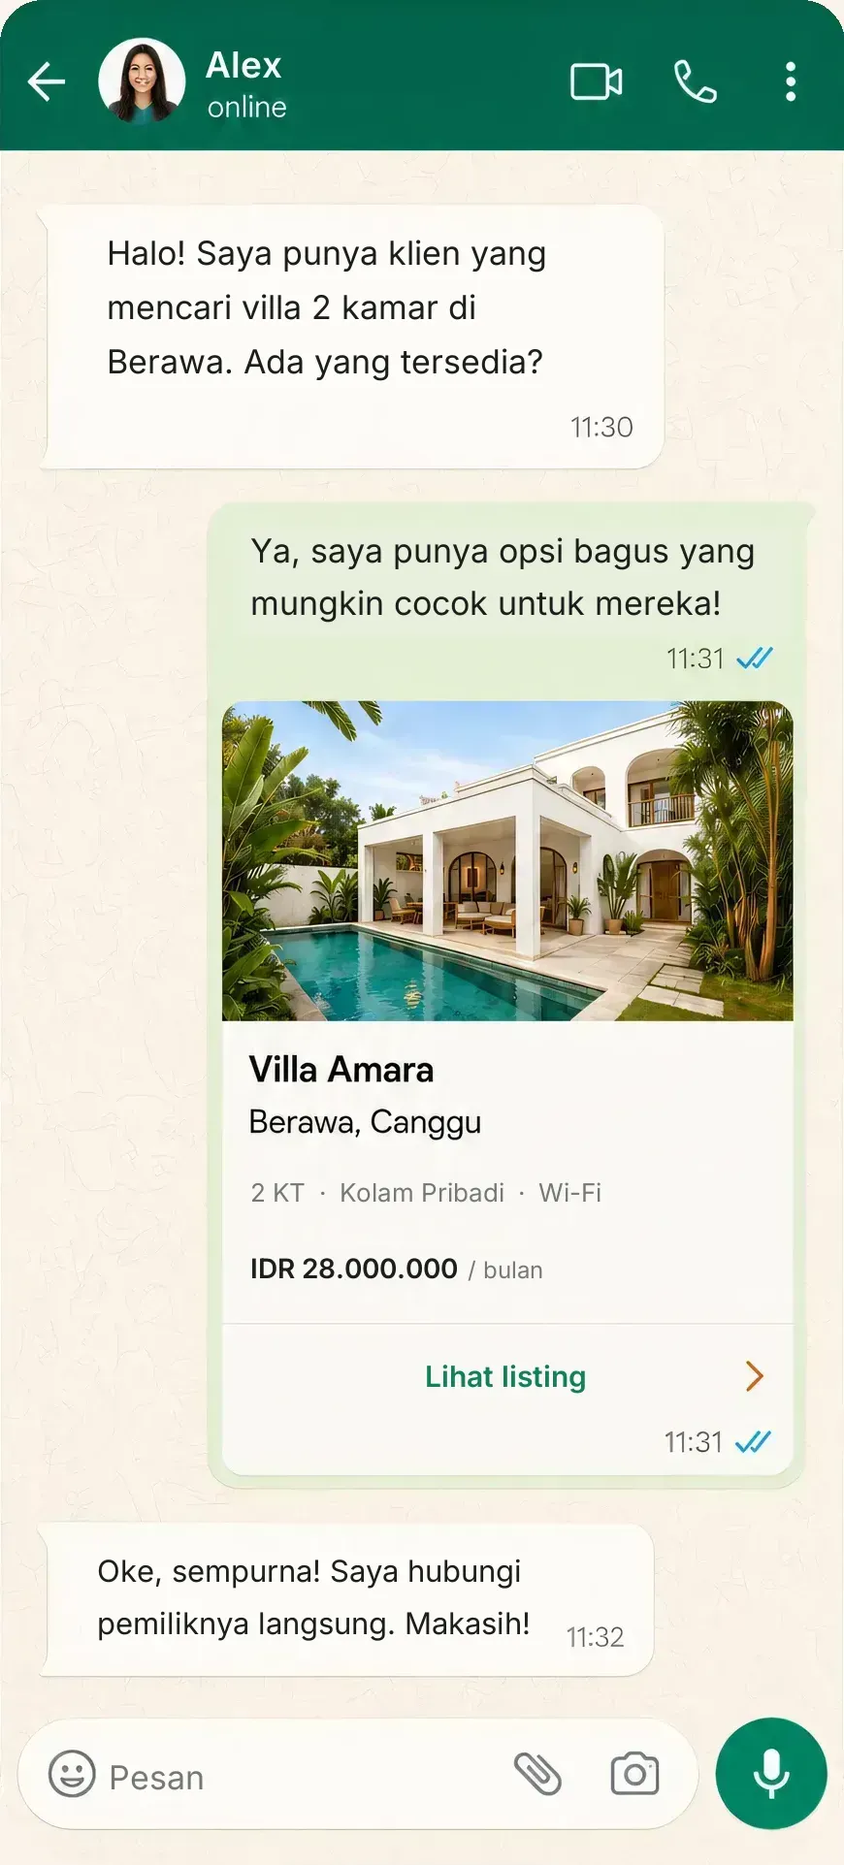
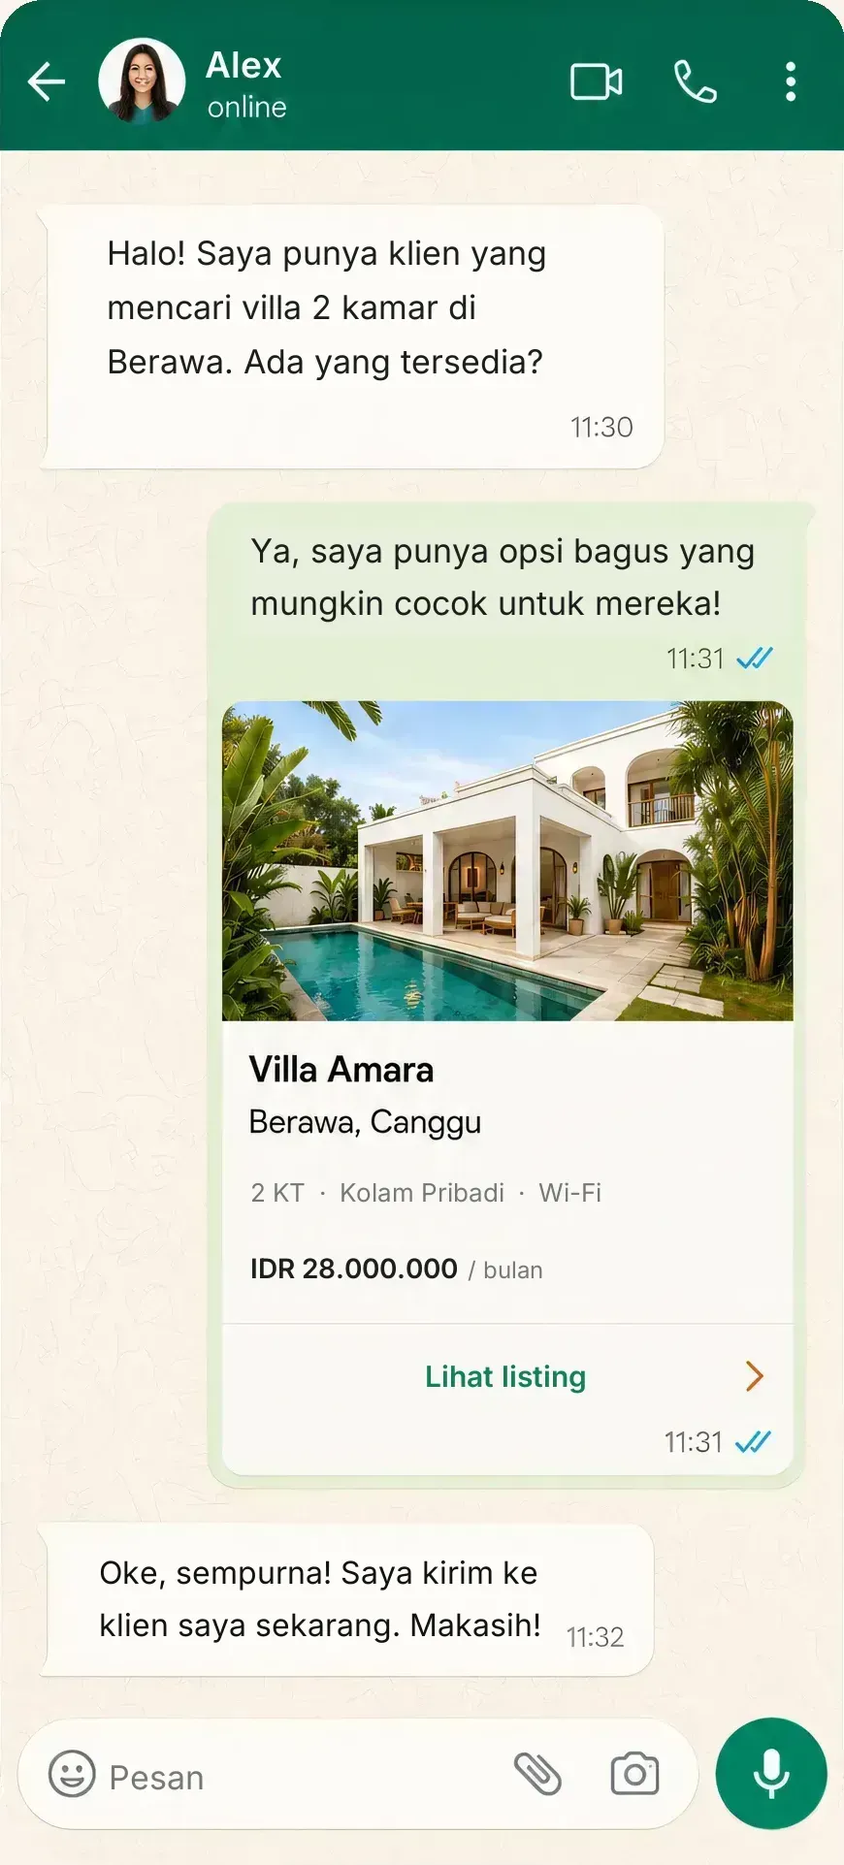
One owner funnel: /home pitches, /portal boots demo + sign-in sheet
The signed-out owner portal was a second landing page competing with /home
(same locked headline, circular Home/List-your-villa nav). Now /portal signed
out boots straight into the demo dashboard with nav.js's site-wide sign-in
sheet over it — the sheet is the auth gate, /home is the only pitch page.

- portal.html: #login landing removed; demo is the signed-out backdrop;
  demo gates (banner, + Add property) open the sheet instead of confirm();
  ?view=new defers to after sign-in; SambaNav.onChange swaps demo for the
  real dashboard in place.
- nav.js: owner variant of the sign-in sheet (full Samba lockup, owner copy,
  FOUNDING25 fineprint, "Explore the demo first", /home link); mobile media
  is a purpose-made 3:2 laptop+phone graphic in a matching 3:2 band so the
  devices never crop; landing prompt claims owner-portal loads; agent
  WhatsApp onboarding no longer fires for owners signing in on /portal.
- for-agents step 3 recast: "Deal with owners directly" — no middleman;
  WhatsApp mockup bubbles patched to match (EN + ID).

Changed region(s): [[0.1241, 0.8112, 0.6517, 0.9048]]

diff --git a/public/portal.html b/public/portal.html
@@ -20,39 +20,9 @@
 *{box-sizing:border-box;margin:0;padding:0;}
 body{font-family:'Satoshi',-apple-system,sans-serif;background:var(--bg);color:var(--text);min-height:100vh;font-size:14.5px;-webkit-font-smoothing:antialiased;-moz-osx-font-smoothing:grayscale;}
 
-/* LANDING (signed-out) */
-#login{min-height:100vh;}
-.lp-nav{position:sticky;top:0;z-index:50;display:flex;align-items:center;gap:10px;padding:12px 22px;background:rgba(244,241,237,0.88);backdrop-filter:blur(10px);border-bottom:1px solid var(--border);}
-.lp-nav .brand-mark{display:flex;align-items:center;text-decoration:none;cursor:pointer;}
-.lp-nav .brand-mark img{height:38px;}
-.lp-nav .spacer{flex:1;}
-.lp-navlink{font-size:0.88rem;font-weight:500;color:var(--text);text-decoration:none;padding:8px 13px;border-radius:8px;transition:background .15s;}
-.lp-navlink:hover{background:var(--surface2);}
-.lp-cta{background:var(--accent);border:none;border-radius:10px;color:#fff;padding:10px 17px;font-family:'Satoshi',-apple-system,sans-serif;font-size:0.84rem;font-weight:600;cursor:pointer;transition:background .2s;white-space:nowrap;}
-.lp-cta:hover{background:var(--sb-terracotta-600);}
-
-.lp-hero{text-align:center;padding:52px 24px 30px;max-width:660px;margin:0 auto;}
-.lp-eyebrow{font-size:0.78rem;font-weight:700;letter-spacing:0.22em;text-transform:uppercase;color:var(--accent);margin-bottom:16px;}
-.lp-h1{font-family:'Satoshi',-apple-system,sans-serif;font-weight:700;font-size:clamp(2.5rem,6.4vw,3.5rem);line-height:1.05;letter-spacing:-.02em;margin-bottom:18px;}
-.lp-sub{font-size:1.08rem;color:var(--muted);line-height:1.6;max-width:520px;margin:0 auto 28px;}
-#gbtn{display:flex;justify-content:center;min-height:44px;}
-.dev-btn{padding:13px 22px;background:var(--surface);color:var(--text);border:1px solid var(--border);border-radius:999px;font-family:'Satoshi',-apple-system,sans-serif;font-size:0.85rem;font-weight:600;cursor:pointer;box-shadow:var(--sb-shadow-sm);}
-.dev-btn:hover{border-color:var(--accent);}
-.login-err{margin-top:12px;color:var(--red);font-size:0.78rem;min-height:1em;}
-.lp-hero-note{margin-top:14px;font-size:0.8rem;color:var(--muted);}
-.lp-hero-note b{color:var(--sb-terracotta-700);letter-spacing:.05em;}
-
-.lp-footer{padding:30px 24px 8px;text-align:center;color:var(--muted);font-size:0.82rem;line-height:2.1;}
-.lp-footer a{color:var(--accent);text-decoration:none;font-weight:500;}.lp-footer a:hover{text-decoration:underline;}
-.lp-footer .lp-flinks a{margin:0 10px;}
-
-@media(max-width:760px){.lp-nav{padding:11px 14px;}.hide-mobile{display:none;}}
-@media(max-width:480px){
-  .lp-nav{gap:5px;padding:10px 10px;}
-  .lp-nav .brand-mark img{height:28px;}
-  .lp-navlink{font-size:.78rem;padding:6px 7px;}
-  .lp-cta{font-size:.75rem;padding:9px 11px;border-radius:9px;}
-}
+/* Signed-out, the page boots straight into the demo dashboard and nav.js's
+   site-wide sign-in sheet opens over it — /home is the only marketing page. */
+@media(max-width:760px){.hide-mobile{display:none;}}
 .portal-foot{margin-top:44px;padding-top:20px;border-top:1px solid var(--border);font-size:0.74rem;color:var(--muted);text-align:center;}
 .portal-foot a{color:var(--muted);text-decoration:none;}.portal-foot a:hover{color:var(--text);}
 
@@ -163,7 +133,6 @@ a.btn-sm{text-decoration:none;display:inline-flex;align-items:center;gap:4px;}
 .ical-help summary::before{content:'? ';font-weight:700;}
 .ical-help[open] summary{margin-bottom:6px;}
 .ical-help div{background:var(--surface2);border-radius:8px;padding:10px 12px;line-height:1.7;}
-.lp-demo{display:block;margin:14px auto 0;background:none;border:none;color:var(--accent);font-family:inherit;font-size:.86rem;font-weight:600;cursor:pointer;text-decoration:underline;text-underline-offset:3px;}
 .demo-banner{display:flex;align-items:center;gap:12px;background:var(--surface2);border:1px solid var(--border);border-radius:12px;padding:12px 16px;margin-bottom:18px;font-size:.86rem;color:var(--text-2);}
 .demo-banner button{margin-left:auto;flex-shrink:0;background:var(--accent);border:none;border-radius:8px;color:#fff;font-family:inherit;font-size:.8rem;font-weight:600;padding:8px 14px;cursor:pointer;}
 .fg .hint{font-size:0.66rem;color:var(--muted);text-transform:none;letter-spacing:0;margin-top:5px;}
@@ -359,38 +328,9 @@ body.wiz-open #snav-tabs{display:none !important;}
 </head>
 <body>
 
-<!-- LANDING (signed-out) -->
-<div id="login">
-  <nav class="lp-nav">
-    <a class="brand-mark" href="/home" aria-label="Samba home">
-      <img src="/logo-samba.png" alt="Samba">
-    </a>
-    <div class="spacer"></div>
-    <a class="lp-navlink" href="/home">Home</a>
-    <button class="lp-cta" onclick="scrollToSignIn()">List your villa</button>
-    <!-- EN/ID pill auto-mounts here (i18n.js) -->
-  </nav>
+<!-- APP — also the signed-out backdrop (demo data + nav.js sign-in sheet).
+     Portal switcher pill comes from nav.js (#snav-tabs) — site-wide component -->
 
-  <header class="lp-hero">
-    <div class="lp-eyebrow">Owner portal</div>
-    <h1 class="lp-h1">One listing. 300+&nbsp;rental&nbsp;agents.</h1>
-    <p class="lp-sub">Sign in to list your villa. Every rental agent on Samba sees your live availability and shares it with their clients.</p>
-    <div id="gbtn"></div>
-    <div class="login-err" id="login-err"></div>
-    <div class="lp-hero-note">The first 25 villas list free with code <b>FOUNDING25</b>. New here? Google sign-in creates your account.</div>
-    <button class="lp-demo" onclick="enterDemo()">Just looking? Explore the dashboard with demo data →</button>
-    <a class="lp-demo" style="display:inline-block;text-decoration:underline;text-underline-offset:3px" href="/home">New to Samba? See how it works →</a>
-  </header>
-
-  <footer class="lp-footer">
-    <div class="lp-flinks"><a href="/terms">Terms</a> · <a href="/privacy">Privacy</a> · <a href="/refund">Refunds</a></div>
-    <div>© 2026 Samba Rentals · Bali, Indonesia</div>
-  </footer>
-
-  <!-- Portal switcher pill comes from nav.js (#snav-tabs) — site-wide component -->
-</div>
-
-<!-- APP -->
 <div id="app">
   <div class="topbar">
     <a class="brand-mark" href="/" aria-label="Samba">
@@ -604,10 +544,8 @@ body.wiz-open #snav-tabs{display:none !important;}
 
 <div id="toast"></div>
 
-<script src="https://accounts.google.com/gsi/client" async></script>
 <script>
 const API = '/api/portal';
-const isDev = ['localhost','127.0.0.1'].includes(location.hostname);
 let appConfig=null, currentOwnerData=null;
 
 async function loadConfig(){ if(appConfig) return appConfig; const r=await api('?action=config'); appConfig=r.body||{}; return appConfig; }
@@ -616,8 +554,6 @@ async function pollProperties(){
 }
 
 function showToast(msg){const t=document.getElementById('toast');t.textContent=msg;t.classList.add('show');clearTimeout(t._h);t._h=setTimeout(()=>t.classList.remove('show'),2600);}
-function scrollToSignIn(){const g=document.getElementById('gbtn');if(g)g.scrollIntoView({behavior:'smooth',block:'center'});}
-function loginErr(msg){document.getElementById('login-err').textContent=msg||'';}
 
 async function api(path, opts={}){
   if(DEMO){const d=demoApi(path);if(d)return d;}
@@ -679,76 +615,41 @@ function enterDemo(){
   if(content&&!document.getElementById('demo-banner')){
     const b=document.createElement('div');
     b.className='demo-banner';b.id='demo-banner';
-    b.innerHTML='<span>You’re browsing <b>demo data</b>. This is what your dashboard looks like once your villa is live.</span><button onclick="exitDemo()">Sign in to add your villa</button>';
+    b.innerHTML='<span>You’re browsing <b>demo data</b>. This is what your dashboard looks like once your villa is live.</span><button onclick="openSignIn(\'banner\')">Sign in to add your villa</button>';
     content.prepend(b);
   }
-  // Demo is a dead end without an exit: back arrow in the topbar returns to
-  // the signed-out gate (exitDemo reloads /portal).
-  const tb=document.querySelector('#app .topbar');
-  if(tb&&!document.getElementById('demo-back')){
-    const bk=document.createElement('button');
-    bk.id='demo-back';bk.className='wiz-icon';bk.title='Exit demo';
-    bk.setAttribute('aria-label','Exit demo');
-    // Same arrow SVG as back.js — the raw "←" glyph rendered thin and off-center.
-    bk.innerHTML='<svg width="17" height="17" viewBox="0 0 24 24" fill="none" stroke="currentColor" stroke-width="2.2" stroke-linecap="round" stroke-linejoin="round" aria-hidden="true"><line x1="19" y1="12" x2="5" y2="12"/><polyline points="12 19 5 12 12 5"/></svg>';
-    bk.onclick=exitDemo;
-    tb.insertBefore(bk,tb.firstChild);
-  }
 }
-function exitDemo(){location.reload();}
+function openSignIn(src){ if(window.SambaNav) SambaNav.openSignIn(src||'gate'); }
 function demoBlock(){
-  if(confirm('This is the demo. Sign in with Google to manage a real villa. Go to sign-in now?')) exitDemo();
+  // Real actions in the demo route to the sign-in sheet instead of a confirm().
+  openSignIn('demo-gate');
   return true;
 }
 
-// ── Boot: check for an existing session, else render sign-in ──
+// ── Boot: existing session → the real app; signed out → demo dashboard as
+// the backdrop, and nav.js opens the site-wide sign-in sheet over it.
 (async function boot(){
   const me = await api('?action=auth/me');
   if (me.ok && me.body?.owner) return enterApp(me.body.owner);
-  renderSignIn();
+  enterDemo();
 })();
 
-async function renderSignIn(){
-  if (isDev){
-    const btn=document.createElement('button');
-    btn.className='dev-btn';
-    btn.textContent='Dev sign-in (local only)';
-    btn.onclick=()=>signIn('dev-credential');
-    document.getElementById('gbtn').appendChild(btn);
-    return;
-  }
-  // Production: Google Identity Services
-  const cfg = await api('?action=config');
-  const clientId = cfg.body?.googleClientId;
-  if (!clientId){ loginErr('Sign-in is not configured yet.'); return; }
-  const start=()=>{
-    if (!window.google?.accounts?.id){ return setTimeout(start,150); }
-    google.accounts.id.initialize({ client_id: clientId, callback:(resp)=>signIn(resp.credential) });
-    google.accounts.id.renderButton(document.getElementById('gbtn'),
-      { theme:'outline', size:'large', shape:'pill', text:'continue_with', width:320 });
-  };
-  start();
-}
-
-async function signIn(credential){
-  loginErr('');
-  const r = await api('?action=auth/google', {
-    method:'POST', headers:{'Content-Type':'application/json'},
-    body: JSON.stringify({ credential })
-  });
-  if (r.ok && r.body?.owner) return enterApp(r.body.owner);
-  loginErr(r.body?.error || 'Sign-in failed.');
+// Sign-in completes inside nav.js's sheet — swap the demo for the real account.
+function leaveDemoFor(owner){
+  DEMO=false;
+  const b=document.getElementById('demo-banner'); if(b) b.remove();
+  enterApp(owner);
 }
 
 function enterApp(owner){
   currentOwnerData=owner;
-  document.getElementById('login').style.display='none';
   document.getElementById('app').style.display='block';
   loadProperties();
   loadConfig();
   // Deep-link from the "List a property" sub-tab → open the add form.
+  // Skipped in the demo: it fires for real once the owner signs in.
   const qs = new URLSearchParams(location.search);
-  if (qs.get('view') === 'new') setTimeout(addProperty, 0);
+  if (qs.get('view') === 'new' && !DEMO) setTimeout(addProperty, 0);
   // Back from Creem checkout: the webhook flips the listing live within moments.
   if (qs.get('paid')) {
     showToast('Payment received. Activating your listing…');
@@ -758,7 +659,7 @@ function enterApp(owner){
 }
 
 async function logout(){
-  if(DEMO)return exitDemo();
+  if(DEMO)return location.reload();   // reload lands back in demo + sign-in sheet
   await api('?action=auth/logout', {method:'POST'});
   location.reload();
 }
@@ -1756,6 +1657,11 @@ async function manageBilling(){
 }
 </script>
 <script src="/nav.js"></script>
+<script>
+// Bridge: when nav.js's sign-in sheet authenticates an owner while the page
+// is showing demo data, swap the demo for their real dashboard in place.
+if (window.SambaNav) SambaNav.onChange(function(acct){ if (acct && DEMO) leaveDemoFor(acct); });
+</script>
   <script src="/i18n.js"></script>
 </body>
 </html>

diff --git a/public/nav.js b/public/nav.js
@@ -92,7 +92,7 @@
   /* Quiet terracotta ticks, not filled chips: the product mockup carries the visual weight now */
   .snav-benefits .snav-bcheck{flex-shrink:0;width:16px;height:16px;color:var(--sb-terracotta,#C46E4B);margin-top:1px}
   .snav-gbtn{display:flex;justify-content:center;min-height:44px}
-  .snav-guest{display:block;width:100%;text-align:center;background:none;border:none;color:#8a8478;font-family:'Geist',-apple-system,sans-serif;font-size:.8rem;font-weight:500;cursor:pointer;padding:8px 4px;transition:color .18s ease}
+  .snav-guest{display:block;width:100%;text-align:center;background:none;border:none;color:#8a8478;font-family:'Geist',-apple-system,sans-serif;font-size:.8rem;font-weight:500;cursor:pointer;padding:8px 4px;transition:color .18s ease;text-decoration:none;box-sizing:border-box}
   .snav-guest:hover{color:#514C45}
   /* Sign-in modal — product-led split: villa-share mockup beside the welcome.
      The mockup does the selling, so the copy side stays quiet and typographic. */
@@ -109,6 +109,7 @@
   .snav-si-hero{padding:34px 30px 0;display:flex;flex-direction:column;align-items:flex-start;text-align:left;gap:11px}
   .snav-si-mark{width:42px;height:42px;border-radius:12px;overflow:hidden;box-shadow:0 1px 2px rgba(28,25,23,.08),0 6px 16px rgba(28,25,23,.12)}
   .snav-si-mark img{width:100%;height:100%;display:block}
+  .snav-si-logo{display:block;height:46px;width:auto}
   .snav-si-title{font-family:var(--sb-font-display,'Satoshi'),'Geist',-apple-system,sans-serif;font-weight:700;font-size:1.5rem;line-height:1.12;color:var(--sb-text,#1C1917);letter-spacing:-.02em}
   .snav-si-lede{color:var(--sb-muted,#8a8478);font-size:.86rem;line-height:1.55;margin:-3px 0 0;max-width:330px}
   .snav-si-box .snav-box-body{padding:16px 30px 26px;gap:13px}
@@ -119,7 +120,9 @@
        fully in frame and the device bleeds off the band's bottom edge — an
        intentional hero crop, not a slice through the middle of the screen. */
     .snav-si-media{height:212px}
+    .snav-si-media.owner{height:auto;aspect-ratio:3/2}
     .snav-si-media img{object-position:center top}
+    .snav-si-media.owner img{object-position:center}
     .snav-si-media::after{box-shadow:inset 0 -20px 24px -20px rgba(28,25,23,.14)}
     .snav-si-hero{align-items:center;text-align:center;padding:24px 24px 0}
     .snav-si-box .snav-box-body{padding:14px 24px 22px}
@@ -300,15 +303,20 @@
   function setAccount(a) { account = a; renderNav(); listeners.forEach(function (fn) { try { fn(account); } catch (e) {} }); }
   function loadMe() { return api('?action=auth/me').then(function (r) { setAccount(r.ok && r.body && r.body.owner ? r.body.owner : null); if (!account && !maybeHandoff() && !maybeLandingPrompt()) maybeOneTap(); return account; }); }
 
-  // Landing on the agent portal signed out: open the full sign-in sheet once
-  // the grid has painted behind it — a richer welcome than One Tap. Shown once
+  // Landing signed out: open the full sign-in sheet once the portal has
+  // painted behind it — a richer welcome than One Tap. Agent portal: shown once
   // per session; within the session One Tap, the contextual gates and the
-  // engagement-cadence prompt take over. Returns true when it claims this page
-  // load (so One Tap stays quiet).
+  // engagement-cadence prompt take over. Owner portal: the sheet IS the auth
+  // gate (the page boots into demo data behind it), so it opens on every
+  // signed-out load. Returns true when it claims this page load (so One Tap
+  // stays quiet).
   function maybeLandingPrompt() {
-    if (curPortal() !== 'agent') return false;   // owner portal has its own flow
     // In-app browsers (most WhatsApp arrivals) get the sheet too — its CTA
     // there is the browser-escape hop rather than the Google button.
+    if (curPortal() === 'owner') {
+      setTimeout(function () { if (!account) openSignIn('landing'); }, 900);
+      return true;
+    }
     try {
       if (sessionStorage.getItem('samba_landing_prompted')) return false;
       sessionStorage.setItem('samba_landing_prompted', '1');
@@ -325,32 +333,51 @@
     var t = setInterval(function () { if (window.google && google.accounts && google.accounts.id) { clearInterval(t); cb(); } }, 100);
   }
   // Contextual headlines: the gate that opened the modal names the value the
-  // agent was reaching for, instead of a generic welcome pitch.
+  // user was reaching for, instead of a generic welcome pitch. The 'owner'
+  // entry is the owner portal's default (its sheet is the auth gate over the
+  // demo dashboard — the pitch itself lives on /home).
   var SIGNIN_COPY = {
     favorite:  { title: 'Save this villa',          lede: 'Sign in to keep favourites and private notes on every device.' },
     shortlist: { title: 'Build a client shortlist', lede: 'Sign in to pick villas and send your client one polished link.' },
+    owner:     { title: 'Your owner portal',        lede: 'Sign in to list your villa and manage availability, photos and pricing. New here? Google sign-in creates your account.' },
     'default': { title: 'Welcome to Samba',         lede: 'One account for favourites, shortlists and your public agent profile.' }
   };
   function ensureSignIn() {
     var ov = document.getElementById('snav-signin'); if (ov) return ov;
+    var owner = curPortal() === 'owner';
+    var benefits = owner
+      ? '<li>' + I.check + '<span><b>One listing, 300+ rental agents.</b> Every agent on Samba sees your live availability</span></li>' +
+        '<li>' + I.check + '<span><b>Weekly reports on WhatsApp.</b> Views, shares and client enquiries for your villa</span></li>'
+      : '<li>' + I.check + '<span><b>Clients enquire with you.</b> Your name, photo and WhatsApp on every villa you share</span></li>' +
+        '<li>' + I.check + '<span><b>Favourites &amp; shortlists,</b> synced and ready to send as one link</span></li>';
     ov = document.createElement('div'); ov.className = 'snav-ov'; ov.id = 'snav-signin';
     ov.innerHTML = '<div class="snav-box snav-si-box"><button class="snav-x-float" data-close aria-label="Close">&times;</button>' +
-      '<div class="snav-si-media"><img id="snav-si-shot" src="/img-hero-phone.webp" alt=""></div>' +
+      // Owner variant, stacked layout only: a purpose-made 3:2 laptop+phone graphic
+      // shown in a matching 3:2 band, so the devices are never cover-cropped.
+      // Desktop (and the agent sheet everywhere) keeps the hand-held phone photo.
+      '<div class="snav-si-media' + (owner ? ' owner' : '') + '"><picture>' +
+      (owner ? '<source media="(max-width:640px)" srcset="/img-owner-signin.webp">' : '') +
+      '<img id="snav-si-shot" src="/img-hero-phone.webp" alt=""></picture></div>' +
       '<div class="snav-si-panel">' +
-      '<div class="snav-si-hero"><div class="snav-si-mark"><img src="/icon-192.png" alt=""></div>' +
+      // Owner sheet shows the full Samba lockup instead of the square app icon —
+      // it is the whole signed-out experience there, so the brand must read.
+      '<div class="snav-si-hero">' +
+      (owner ? '<img class="snav-si-logo" src="/logo-samba.png" alt="Samba — connecting owners & agents">'
+             : '<div class="snav-si-mark"><img src="/icon-192.png" alt=""></div>') +
       '<div class="snav-si-title" id="snav-si-title">Welcome to Samba</div>' +
       '<p class="snav-si-lede" id="snav-si-lede">One account for favourites, shortlists and your public agent profile.</p></div>' +
       '<div class="snav-box-body">' +
-      '<ul class="snav-benefits">' +
-      '<li>' + I.check + '<span><b>Clients enquire with you.</b> Your name, photo and WhatsApp on every villa you share</span></li>' +
-      '<li>' + I.check + '<span><b>Favourites &amp; shortlists,</b> synced and ready to send as one link</span></li>' +
-      '</ul>' +
+      '<ul class="snav-benefits">' + benefits + '</ul>' +
       '<div class="snav-gbtn" id="snav-gbtn"></div>' +
       '<div class="snav-wait" id="snav-signin-wait" style="display:none"><span class="snav-spin"></span> Signing you in…</div>' +
       '<div class="snav-err" id="snav-signin-err"></div>' +
-      '<div class="snav-fineprint">Free for agents · no card required</div>' +
-      '<button class="snav-guest" data-close>Continue as guest</button></div>' +
-      '</div></div>';
+      (owner
+        ? '<div class="snav-fineprint">The first 25 villas list free with code FOUNDING25</div>' +
+          '<button class="snav-guest" data-close>Explore the demo first</button>' +
+          '<a class="snav-guest" href="/home">New to Samba? See how it works &rarr;</a>'
+        : '<div class="snav-fineprint">Free for agents · no card required</div>' +
+          '<button class="snav-guest" data-close>Continue as guest</button>') +
+      '</div></div></div>';
     document.body.appendChild(ov);
     ov.addEventListener('click', function (e) {
       if (e.target === ov || e.target.hasAttribute('data-close')) {
@@ -363,7 +390,7 @@
   function openSignIn(src, ctx) {
     sigSource = src || 'nav';
     var ov = ensureSignIn(); ov.classList.add('open');
-    var copy = SIGNIN_COPY[ctx] || SIGNIN_COPY['default'];
+    var copy = SIGNIN_COPY[ctx] || SIGNIN_COPY[curPortal() === 'owner' ? 'owner' : 'default'];
     document.getElementById('snav-si-title').textContent = copy.title;
     document.getElementById('snav-si-lede').textContent = copy.lede;
     var slot = document.getElementById('snav-gbtn'); slot.innerHTML = ''; slot.style.display = '';
@@ -490,8 +517,9 @@
         snTrack(r.body.isNew ? 'signup_done_' + sigSource : 'signin_done');
         if (ov) ov.classList.remove('open');
         var cb = pendingAfterSignIn; pendingAfterSignIn = null;
-        // WhatsApp-required onboarding for new/incomplete agents.
-        if (!(account.profile && account.profile.waNumber)) { hideToast(); openAccount(true); }
+        // WhatsApp-required onboarding for new/incomplete agents — agent portal
+        // only: owners signing in on /portal go straight to their dashboard.
+        if (curPortal() === 'agent' && !(account.profile && account.profile.waNumber)) { hideToast(); openAccount(true); }
         else {
           var f = firstName();
           snToast('Welcome back' + (f ? ', ' + esc(f) : ''));

diff --git a/public/for-agents.html b/public/for-agents.html
@@ -348,9 +348,9 @@ body {
     <div class="step">
       <div class="step-head">
         <div class="step-num">3</div>
-        <div class="step-title">Owners respond directly</div>
+        <div class="step-title">Deal with owners directly</div>
       </div>
-      <div class="step-text">Clients reach you or the owner instantly. No waiting, no middlemen.</div>
+      <div class="step-text">Talk straight to the villa owner. Samba connects you, then steps out of the way, no middleman.</div>
       <div class="step-shot"><img src="/img-agent-whatsapp-ui.webp" data-id-src="/img-agent-whatsapp-ui-id.webp" width="870" height="1923" loading="lazy" alt="WhatsApp chat where a client receives a villa listing"></div>
     </div>
   </div>
